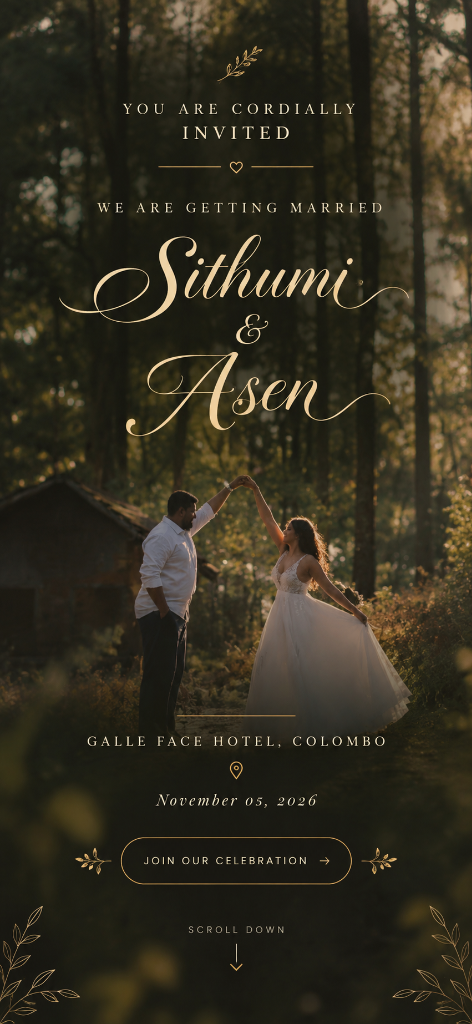
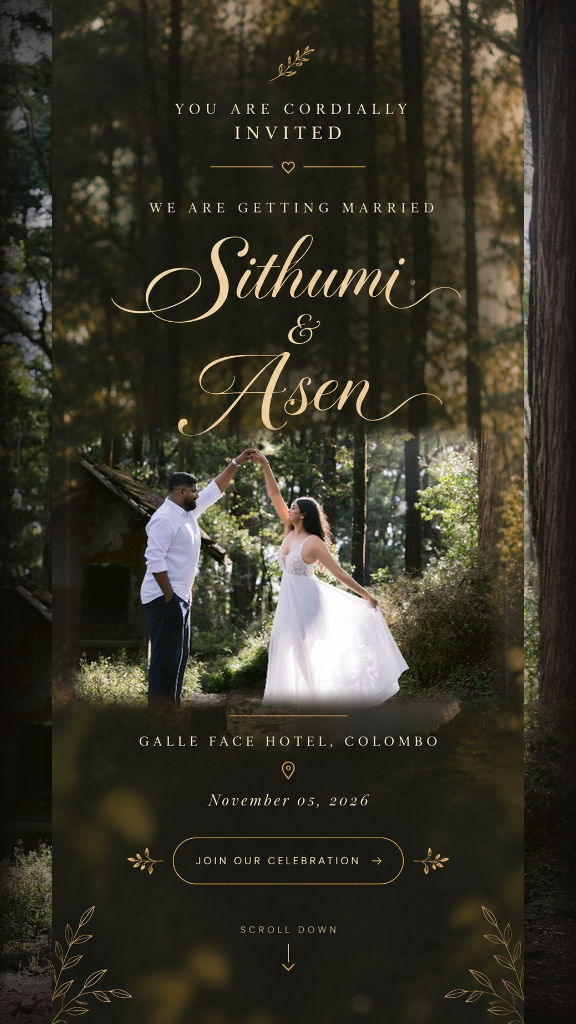
sample page

diff --git a/src/components/Hero.jsx b/src/components/Hero.jsx
@@ -17,37 +17,47 @@ export default function Hero() {
 
   // Subtle floating ambient gold particles
   const particles = [
-    { id: 1, top: '15%', left: '14%', size: 3, duration: 4.8, delay: 0 },
-    { id: 2, top: '25%', right: '16%', size: 4, duration: 5.4, delay: 0.8 },
-    { id: 3, top: '65%', left: '12%', size: 3, duration: 4.5, delay: 0.4 },
-    { id: 4, top: '75%', right: '14%', size: 4, duration: 5.8, delay: 1.2 },
-    { id: 5, top: '45%', left: '10%', size: 2.5, duration: 6.0, delay: 1.6 },
+    { id: 1, top: '15%', left: '12%', size: 3, duration: 4.8, delay: 0 },
+    { id: 2, top: '25%', right: '14%', size: 4, duration: 5.4, delay: 0.8 },
+    { id: 3, top: '65%', left: '10%', size: 3, duration: 4.5, delay: 0.4 },
+    { id: 4, top: '75%', right: '12%', size: 4, duration: 5.8, delay: 1.2 },
+    { id: 5, top: '45%', left: '8%', size: 2.5, duration: 6.0, delay: 1.6 },
     { id: 6, top: '85%', left: '46%', size: 3.5, duration: 5.0, delay: 0.7 },
   ];
 
   return (
     <section
       id="home"
-      className="relative min-h-[100dvh] w-full flex items-center justify-center overflow-hidden bg-[#0D0B08] select-none"
+      className="relative w-full h-[100svh] min-h-[100svh] flex items-center justify-center overflow-hidden bg-[#0D0B08] select-none"
     >
-      {/* Subtle Ambient Vignette Backdrop */}
-      <div className="absolute inset-0 bg-radial from-[#1A1610] via-[#0D0B08] to-[#050403] pointer-events-none" />
+      {/* 
+        Full-Screen Forest Background (Guarantees zero black bars on any display size)
+      */}
+      <div 
+        className="absolute inset-0 bg-cover bg-[center_35%] sm:bg-center filter brightness-[0.45] contrast-[1.1] scale-105 pointer-events-none"
+        style={{
+          backgroundImage: `url('/hero.jpg')`,
+        }}
+      />
+
+      {/* Cinematic Dark Warm Vignette Overlays */}
+      <div className="absolute inset-0 bg-gradient-to-b from-black/80 via-transparent to-black/85 pointer-events-none" />
 
       {/* 
-        The Exact Full Invitation Poster Card:
-        - Perfectly constrained to aspect ratio 472:1024 so NOTHING is cropped
-        - Fills full height on mobile/desktop cleanly
+        The Master 9:16 Invitation Artwork:
+        - On mobile: fills 100% of the screen edge-to-edge with ZERO black bars
+        - On tablet/desktop: centered luxury folio card with subtle shadow
       */}
-      <div className="relative h-[100dvh] max-h-[100dvh] w-auto aspect-[472/1024] flex items-center justify-center overflow-hidden">
+      <div className="relative w-full h-full sm:max-w-[480px] sm:h-[96vh] sm:rounded-2xl sm:shadow-[0_25px_60px_-15px_rgba(0,0,0,0.9)] overflow-hidden flex items-center justify-center bg-[#0D0B08] z-10">
         
-        {/* Full Image with Ken Burns subtle entrance */}
+        {/* Full Image */}
         <motion.img
           initial={{ scale: 1.03, opacity: 0 }}
           animate={{ scale: 1, opacity: 1 }}
           transition={{ duration: 1.2, ease: 'easeOut' }}
           src="/hero-invitation.png"
           alt="Sithumi & Asen Wedding Invitation"
-          className="w-full h-full object-contain pointer-events-none select-none"
+          className="w-full h-full object-cover sm:object-contain pointer-events-none select-none drop-shadow-[0_0_35px_rgba(0,0,0,0.85)]"
         />
 
         {/* Floating Ambient Gold Sparkles */}
@@ -80,7 +90,6 @@ export default function Hero() {
 
         {/* 
           Interactive Click Area for "JOIN OUR CELEBRATION" Button 
-          - Positioned exactly over the button in the image (Y ~ 81.4% to 86.6%, X center 50%)
         */}
         <a
           href="#rsvp"
@@ -91,17 +100,15 @@ export default function Hero() {
             top: '81.4%',
             left: '50%',
             transform: 'translateX(-50%)',
-            width: '58%',
-            height: '5.2%',
+            width: '64%',
+            height: '5.6%',
           }}
         >
-          {/* Subtle Hover / Active Gold Sheen */}
-          <span className="absolute inset-0 rounded-full transition-all duration-300 group-hover:bg-[#D4AF37]/20 group-hover:shadow-[0_0_20px_rgba(212,175,55,0.4)] group-active:scale-95" />
+          <span className="absolute inset-0 rounded-full transition-all duration-300 group-hover:bg-[#D4AF37]/25 group-hover:shadow-[0_0_20px_rgba(212,175,55,0.4)] group-active:scale-95" />
         </a>
 
         {/* 
           Interactive Click Area for "SCROLL DOWN"
-          - Positioned exactly over the scroll indicator (Y ~ 88.5% to 95%)
         */}
         <a
           href="#countdown"
@@ -109,11 +116,11 @@ export default function Hero() {
           aria-label="Scroll down to wedding details"
           className="group absolute z-20 cursor-pointer rounded-xl transition-all focus:outline-none flex items-center justify-center"
           style={{
-            top: '88.5%',
+            top: '88.8%',
             left: '50%',
             transform: 'translateX(-50%)',
-            width: '36%',
-            height: '6.5%',
+            width: '38%',
+            height: '6.8%',
           }}
         >
           <span className="absolute inset-0 rounded-xl transition-all duration-300 group-hover:bg-white/10 group-active:scale-95" />

diff --git a/index.html b/index.html
@@ -9,6 +9,15 @@
     <link rel="preconnect" href="https://fonts.googleapis.com">
     <link rel="preconnect" href="https://fonts.gstatic.com" crossorigin>
     <link href="https://fonts.googleapis.com/css2?family=Cinzel:wght@400;500;600;700&family=Great+Vibes&family=Playfair+Display:ital,wght@0,400..900;1,400..900&family=Poppins:ital,wght@0,300;0,400;0,500;0,600;0,700&display=swap" rel="stylesheet">
+    <style>
+      @font-face {
+        font-family: 'Darleston';
+        src: url('/fonts/Darleston.otf') format('opentype');
+        font-weight: normal;
+        font-style: normal;
+        font-display: swap;
+      }
+    </style>
     <meta name="description" content="Sithumi & Asen's Wedding Invitation. Join us in celebrating our love story, event details, and RSVP online." />
   </head>
   <body class="bg-beige text-luxury-dark font-sans overflow-x-hidden antialiased">

diff --git a/src/index.css b/src/index.css
@@ -16,6 +16,7 @@
   --font-sans: Poppins, sans-serif;
   --font-script: "Great Vibes", cursive;
   --font-cinzel: "Cinzel", serif;
+  --font-darleston: "Darleston", cursive;
 }
 
 @layer base {
